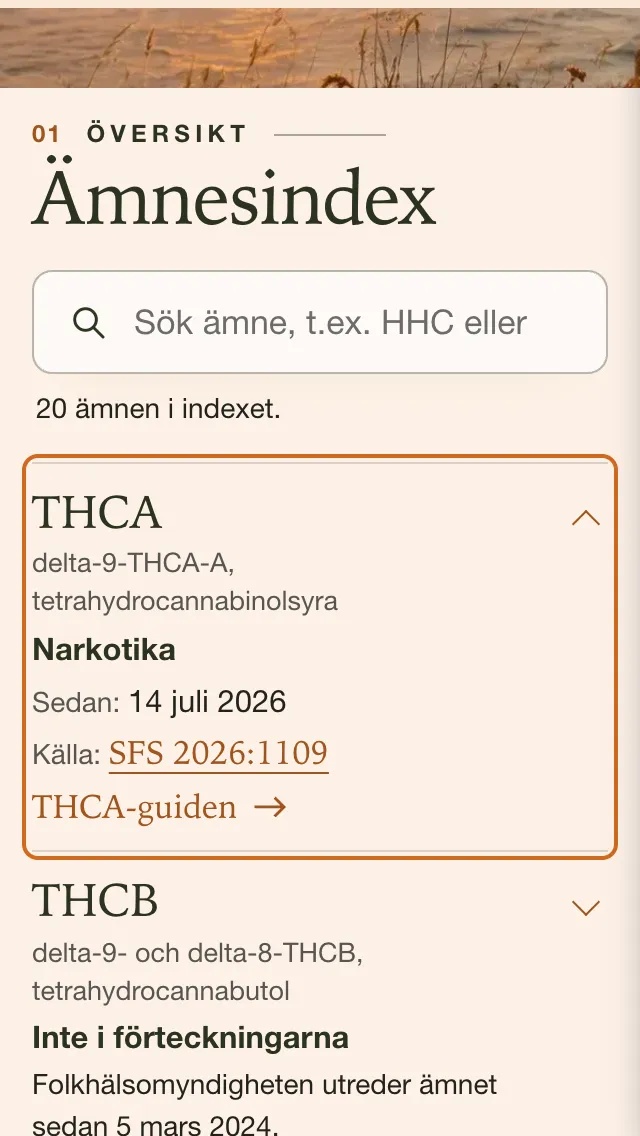
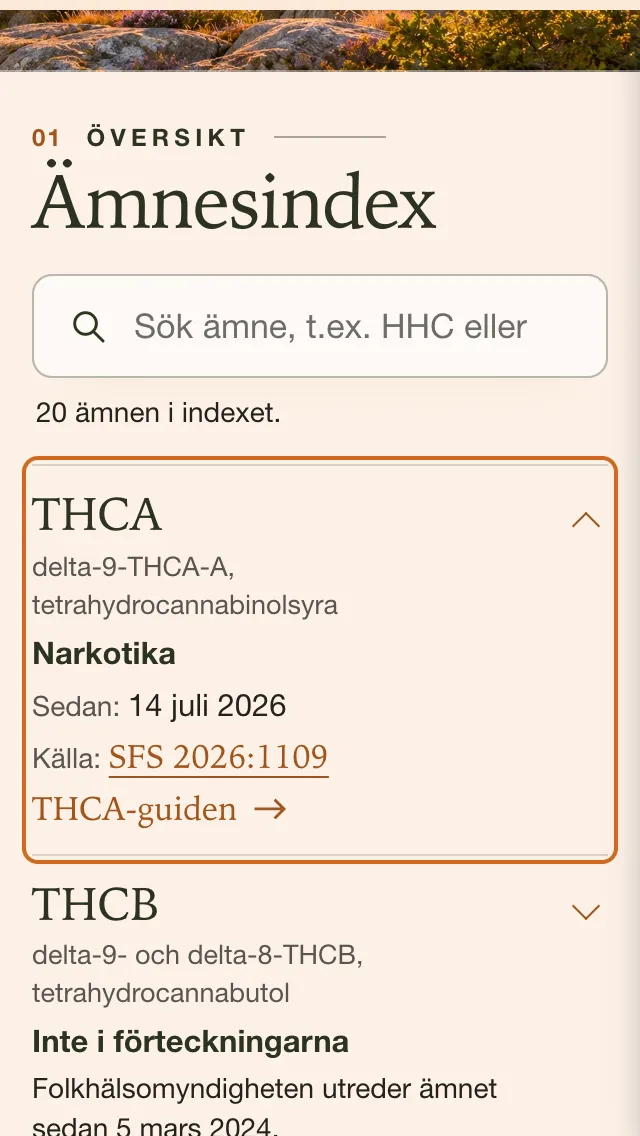
fix(theme8): legal hub mobile hero R2 – warm paper heading and sharp coast band
Replaces the rejected fade-over-image mobile hero (87577a3). At <=767px the
heading and check date sit on plain warm paper (light zone removed, it
washed out the breadcrumb), followed by an edge-to-edge, unveiled band of
the new kustljus motif (crop x740-1672/y330-941, 932px, no upscaling) with
a straight edge into the index sheet. Desktop keeps its structure with the
new motif (1100/1672). Old sea-* assets removed (never published).
Block HTML unchanged: 20 rows, 51 links, sources and FAQ identical.
Before/after sheets at 393, 430 and 1440; breadcrumb contrast now measured.

diff --git a/theme8/css/88f-landing-hub.css b/theme8/css/88f-landing-hub.css
@@ -14,12 +14,12 @@
 
 html.hz8.hz8-lp-page.hz8-atlas-page[data-hz8-lp-scene="hub"] #store-main .hz8-atlas__photo {
   background:
-    image-set(url("assets/knowledge-hub/sea-1100.webp") 1x, url("assets/knowledge-hub/sea-1100.webp") 2x) 30% 60% / cover no-repeat,
+    image-set(url("assets/knowledge-hub/kustljus-1100.webp") 1x, url("assets/knowledge-hub/kustljus-1672.webp") 2x) 72% 62% / cover no-repeat,
     linear-gradient(200deg, var(--at-paper-deep) 0, var(--at-paper) 80%);
 }
 @media (max-width: 1023px) {
   html.hz8.hz8-lp-page.hz8-atlas-page[data-hz8-lp-scene="hub"] #store-main .hz8-atlas__photo {
-    background: url("assets/knowledge-hub/sea-band-1100.webp") 40% 50% / cover no-repeat, var(--at-paper-deep);
+    background: url("assets/knowledge-hub/kustljus-band-932.webp") 50% 56% / cover no-repeat, var(--at-paper-deep);
   }
 }
 
@@ -175,28 +175,21 @@ html.hz8.hz8-lp-page.hz8-atlas-page #store-main .hz8-hub__open strong { color: v
   html.hz8.hz8-lp-page.hz8-atlas-page #store-main .hz8-atlas--hub .hz8-atlas__tagline { font-size: 22px !important; }
   /* Mobil: indexet följer direkt, så ankarlänkarna behövs inte i heron (finns i metodspalten). */
   html.hz8.hz8-lp-page.hz8-atlas-page #store-main .hz8-atlas--hub .hz8-atlas__jump { display: none; }
-  /* Mobil-hero (korrigering 2026-11-16, som skissens telefon): kustbilden ligger
-     bakom rubriken i stället för som eget band under den. Papperet tonar ned över
-     bildens överdel, så rubriken står på ljus botten och havet syns nedtill. Det
-     sparar bandets höjd, så sökfältet och de första ämnesraderna når första vyn. */
-  html.hz8.hz8-lp-page.hz8-atlas-page #store-main .hz8-atlas--hub .hz8-atlas__hero { padding-bottom: 58px; }
-  html.hz8.hz8-lp-page.hz8-atlas-page #store-main .hz8-atlas--hub .hz8-atlas__photo {
-    position: absolute;
-    z-index: 0;
-    top: 0; /* inte upp under brödsmulan */
-    right: -16px;
-    bottom: 0;
-    left: -16px;
-    width: auto;
-    height: auto;
-    margin: 0;
-    background:
-      linear-gradient(180deg, color-mix(in srgb, var(--at-paper) 55%, transparent) 0, color-mix(in srgb, var(--at-paper-light) 90%, transparent) 30%, color-mix(in srgb, var(--at-paper-light) 90%, transparent) 38%, color-mix(in srgb, var(--at-paper-light) 62%, transparent) 60%, color-mix(in srgb, var(--at-paper-light) 46%, transparent) 76%, color-mix(in srgb, var(--at-paper-light) 0%, transparent) 90%),
-      url("assets/knowledge-hub/sea-band-1100.webp") 34% 100% / auto 100% no-repeat,
-      linear-gradient(180deg, var(--at-paper-light) 0, var(--at-paper-deep) 100%);
-  }
+  /* Mobil-hero R2 (2026-11-16, facit rattslageshubb.png + kustljus.png): rubrik och
+     datum på ljust, varmt papper; under texten ett skarpt, solbelyst bildband kant
+     till kant utan färgslöja. Utsnittet (kustljus-band-932, ur kustljus.png x 740–1672,
+     y 330–941, ingen uppskalning) visar sol, solglitter, öar och klippor vid 393 px.
+     Rak nederkant mot ämnesindexets ljusa ark. */
+  html.hz8.hz8-lp-page.hz8-atlas-page #store-main .hz8-atlas--hub .hz8-atlas__hero { padding-bottom: 0; }
+  /* Ingen ljuszon på mobil: den lade sig över brödsmulan och bleknade den. */
   html.hz8.hz8-lp-page.hz8-atlas-page #store-main .hz8-atlas--hub .hz8-atlas__hero::before { display: none; }
-  html.hz8.hz8-lp-page.hz8-atlas-page #store-main .hz8-atlas--hub .hz8-atlas__opening { padding-top: 16px; }
+  html.hz8.hz8-lp-page.hz8-atlas-page #store-main .hz8-atlas--hub .hz8-atlas__photo {
+    height: clamp(200px, 58vw, 260px);
+    margin: 22px -16px 0;
+    background: url("assets/knowledge-hub/kustljus-band-932.webp") 50% 58% / cover no-repeat, var(--at-paper-deep);
+    box-shadow: inset 0 -1px 0 color-mix(in srgb, #fff 40%, transparent);
+  }
+  html.hz8.hz8-lp-page.hz8-atlas-page #store-main .hz8-atlas--hub .hz8-atlas__opening { padding-top: 26px; }
   html.hz8.hz8-lp-page.hz8-atlas-page #store-main .hz8-atlas--hub .hz8-atlas__intro h2 { margin-bottom: 4px !important; }
   /* Ingressen visas efter tabellen på mobil. Den står kvar på samma plats i HTML
      (och på desktop, där den är godkänd); bara den visuella ordningen ändras.

diff --git a/theme8/review/rattslage-hub-2026-11/RAPPORT.md b/theme8/review/rattslage-hub-2026-11/RAPPORT.md
@@ -131,3 +131,50 @@ Helsidan vid 393 är cirka 10 600 px hög. Bilden är ihopsatt av delar i 1× up
 | `fore-mobil/` | Före-bilderna (`7913ef1`) |
 
 **Fel i testbilderna (inte i sidan):** Före-helsidan vid 393 visar headern mitt på sidan. Det var testskriptet, som tog helsidesbilden medan en mjuk rullning tillbaka till toppen pågick. `verify.mjs` rullar nu direkt till toppen och döljer fasta element i bildens senare delar.
+
+## Mobilhero R2 (16 november 2026): papper + skarpt bildband
+
+**Bakgrund:** versionen `87577a3` hade kustbilden bakom rubriken med en fade som gav en brungrå och turkos slöja. Den är **avvisad**. Facit är `rattslageshubb.png`. Bildmaterialet är `hub-hero-r2/kustljus.png`, en syntetisk stämningsbild utan text.
+
+**Ny lösning** (bara CSS vid ≤ 767 px, plus bildfilerna):
+1. **Rubriken** (eyebrow, H1, tagline, kopparstreck och "Kontrollerad mot förordningarna 16 november 2026") står på ljust, varmt papper med mörk text. Ingen bild, panel eller ljuszon ligger bakom. Ljuszonen togs bort på mobil, eftersom den lade sig över brödsmulan och bleknade den.
+2. **Ett skarpt bildband** går kant till kant under texten, utan färgslöja.
+   - Utsnittet `kustljus-band-932.webp` (x 740–1672, y 330–941 ur originalet) visar sol, solglitter, öar, klippor och ljung.
+   - Bandet är 228 px högt vid 393, 249 px vid 430 och 200 px vid 320.
+   - Bilden är 932 px bred, så den skalas ned och blir skarp även på 2x-skärmar: 786 enhetspixlar vid 393, 860 vid 430.
+3. **Övergången till indexet** är bandets raka nederkant mot ämnesindexets ljusa ark, med en tunn ljus kantlinje. Därefter följer kicker, H2, sökfältet och raderna.
+4. **Ingressen** visas fortfarande efter tabellen på mobil. Den står kvar på samma plats i HTML och på desktop.
+
+**Desktop:** strukturen är oförändrad; bara motivet är nytt. Det nya motivet fungerar i desktopens bildfält: solen, öarna och klipporna hamnar till höger och tonar in i papperet mot rubriken. Filerna är `kustljus-1100.webp` (1x) och `kustljus-1672.webp` (2x).
+
+**Första vyn:**
+
+| Vy | Sökfältet slutar | Hela ämnesrader i vyn |
+|---|---|---|
+| 393 × 852 | 760 px | 0. THCA börjar strax under sökfältet. Avsiktligt: designen prioriteras före två rader. |
+| 430 × 932 | 788 px | 1 |
+| 320 × 700 | 758 px, under vikningen | 0 |
+| 1440 × 900 | 791 px | 0, som tidigare. Tabellhuvudet och THCA-raden syns. |
+| 1920 × 1080 | 837 px | 1 |
+
+**Kontroller** (`verify.json`, 11 körningar):
+- Ingen sidledsscroll och inga konsolfel utom laddmeddelandet utan JS.
+- Kontrast: lägst 4,53 på desktop och 4,64 på mobil. Brödsmulan har 5,79 på mobil; den mäts nu med texten dold i bakgrundsbilden.
+- Sök, Escape, öppningsbar rad med Enter, ankare och FAQ med tangentbordet fungerar.
+
+**Oförändrat** (`seo-regression.json`):
+- Blockets HTML är identisk med `7913ef1`.
+- 20 rader, 51 länkar och 9 772 tecken text.
+- Alla fyra sökfrågorna har synliga svar, och H1, titel och meta är desamma.
+
+**Bilder** (`shots/`):
+
+| Fil | Innehåll |
+|---|---|
+| `r2-393-fold.webp` | Skiss, avvisad och ny vid 393 |
+| `r2-430-fold.webp` | Avvisad och ny vid 430 |
+| `r2-1440-fold.webp` | Avvisad och ny vid 1440 |
+| `r2-393-helsida.webp` | Avvisad och ny, hela sidan |
+| `avvisad/` | Bilder av den avvisade versionen |
+
+**Status:** väntar på Vilmers visuella godkännande. Inte mergad.

diff --git a/theme8/assets/knowledge-hub/README.md b/theme8/assets/knowledge-hub/README.md
@@ -2,11 +2,18 @@
 
 | Fil | Mått | Används |
 |---|---|---|
-| `sea-1100.webp` | 1100 × 941 | Desktop, högra bildfältet i heron (88f) |
-| `sea-band-1100.webp` | 1100 × 560 | Bandet under heron vid ≤ 1023 px |
+| `kustljus-1100.webp` | 1100 × 619 | Desktop 1x, högra bildfältet i heron (88f) |
+| `kustljus-1672.webp` | 1672 × 941 | Desktop 2x |
+| `kustljus-band-932.webp` | 932 × 611 | Bildbandet under rubriken vid ≤ 1023 px (mobil och surfplatta) |
 
-**Ursprung:** utsnitt ur den befintliga tema-asseten `theme8/assets/landing-thcx/coast-editorial-1672.webp` (1672 × 941), som redan används på THCX-sidan (88d). Utsnittet tar bara den vänstra delen, x 0–1100. Där syns hav, sol, udde och strandgräs. Personen i originalets högra del är inte med. Bandet är samma utsnitt, y 230–790.
+**Ursprung:** `design/kunskap-rattslage-2026-11-16/hub-hero-r2/kustljus.png` (1672 × 941, SHA-256 `a794957d5fb5a587…`). Vilmer levererade den 2026-11-16 som en syntetisk stämningsbild utan inbakad text. Den visar en solbelyst kust med hav, öar, klippor och sol.
 
-Gjort 2026-11-16 med canvas i Chrome och `cwebp -q 84`. Ingen tonkorrigering.
+**Bearbetning 2026-11-16:**
+- Konverterad till WebP med `cwebp`: q 84 för desktop och q 86 för bandet.
+- `kustljus-1100` är nedskalad. Ingen bild är uppskalad.
+- Bandet är ett utsnitt ur originalet, x 740–1672 och y 330–941, där sol, solglitter, öar och klippor ryms vid 393 px.
+- Ingen tonkorrigering och ingen färgslöja.
 
-**Rättigheter och äkthet:** samma som originalet. Originalet ser ut att vara syntetiskt (AI-genererat) och dess ursprung är inte dokumenterat i repot; se beslut F6 i `theme8/review/thch-hhc-knowledge-2026-11/BESLUT.md`. Bilden är illustrativ, inte dokumentär. Den visar ingen produkt, ingen plats som påstås vara verklig och inget ämne. Sidan säger det i källavsnittet.
+**Äkthet:** bilden är illustrativ, inte dokumentär. Den visar ingen produkt, ingen plats som påstås vara verklig och inget ämne. Sidan säger det i källavsnittet.
+
+Den tidigare bilden (`sea-*.webp`, utsnitt ur `landing-thcx/coast-editorial-1672.webp`) är borttagen. Den användes bara i den avvisade versionen och publicerades aldrig.

diff --git a/theme8/review/rattslage-hub-2026-11/BESLUT.md b/theme8/review/rattslage-hub-2026-11/BESLUT.md
@@ -10,7 +10,7 @@
 | R4 | Titel och meta | Enligt `KARTLAGGNING.md` avsnitt 5. Metan kan kortas i admin. |
 | R5 | Länk tillbaka från ämnesguiderna | THCB, THCH och HHC (finns i Nyehandel) och THCA får en länk till hubben under "Relaterat". Det kräver en uppdatering av fyra befintliga sidor via API:t, så det görs efter att hubben är skapad. |
 | R6 | Gamla adressen | Se `KARTLAGGNING.md` avsnitt 5: med samma slug behövs troligen ingen regel, men det måste kontrolleras efter att sidan skapats. |
-| R7 | Stämningsbilden | Utsnitt ur befintliga `landing-thcx/coast-editorial-1672.webp`, utan personen. Samma ursprungsfråga som F6. |
+| R7 | Stämningsbilden | `kustljus.png` från `hub-hero-r2` (syntetisk, levererad av Vilmer 2026-11-16). Se `theme8/assets/knowledge-hub/README.md`. Mobilheron R2 väntar på godkännande. |
 | R8 | THCNM | Den gamla artikeln `/sv/post/vad-ar-thcnm` och kategorin `/sv/categories/thcnm` säger att THCNM är lagligt och beskriver kemi som inte stämmer. De är orörda. Beslut behövs om de ska uppdateras eller märkas. |
 | R9 | Handelsnamn | Magic Sauce, Nano11 och Nano 9/10 tas inte upp som rader. Ska sidan ha en sektion om vad som säljs, krävs analysintyg per produkt och en egen faktagranskning. |
 | R10 | Strukturerad data | FAQPage för de sex synliga frågorna kan läggas till efter faktagranskningen (gamla sidan har FAQPage). Inte gjort, inte testat. |
